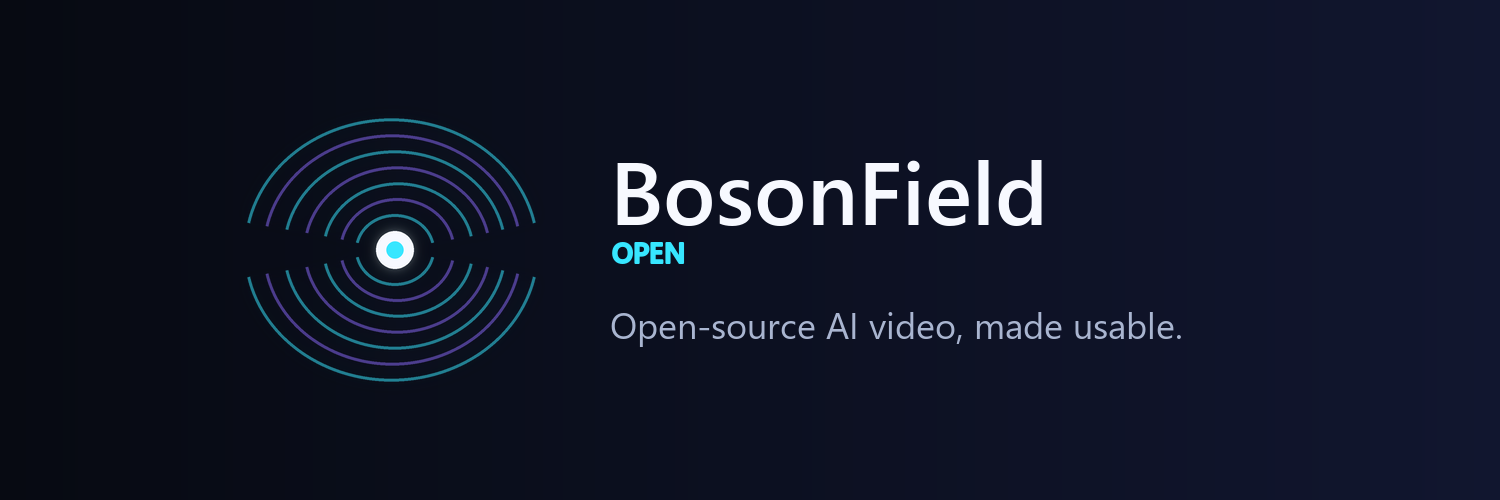
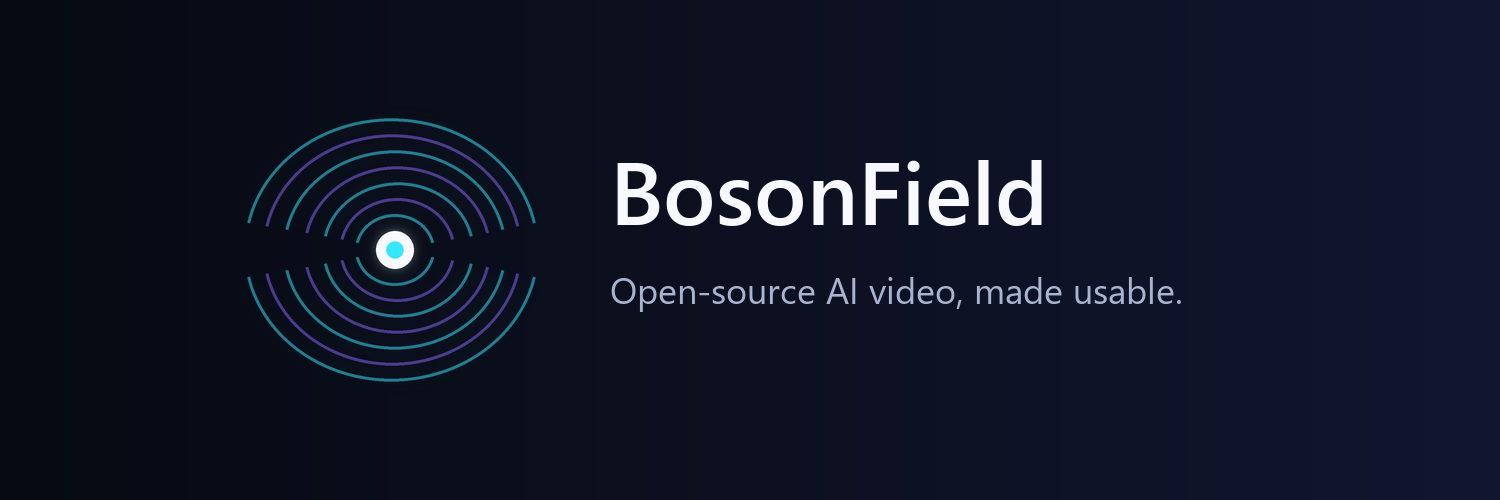
Lock public name to BosonField

Changed region(s): [[0.3987, 0.48, 0.7973, 0.69]]

diff --git a/index.html b/index.html
@@ -3,12 +3,12 @@
 <head>
   <meta charset="utf-8">
   <meta name="viewport" content="width=device-width, initial-scale=1">
-  <meta name="description" content="BosonField Open turns free and openly licensed AI-video tools into clear beginner lessons, tested workflows, and community-built software.">
+  <meta name="description" content="BosonField turns free and openly licensed AI-video tools into clear beginner lessons, tested workflows, and community-built software.">
   <meta name="theme-color" content="#070A12">
-  <meta property="og:title" content="BosonField Open">
+  <meta property="og:title" content="BosonField">
   <meta property="og:description" content="Open-source AI video, made usable.">
   <meta property="og:image" content="brand/banner-1500x500.png">
-  <title>BosonField Open — open-source AI video, made usable</title>
+  <title>BosonField — open-source AI video, made usable</title>
   <style>
     :root {
       --ink:#070a12; --panel:#101528; --panel2:#151c35; --text:#f7f9ff;
@@ -73,7 +73,7 @@
 <body>
   <header class="wrap">
     <nav aria-label="Main navigation">
-      <a class="brand" href="#top"><img src="brand/avatar-400.png" alt="BosonField Open contour mark"><span>BosonField Open</span></a>
+      <a class="brand" href="#top"><img src="brand/avatar-400.png" alt="BosonField contour mark"><span>BosonField</span></a>
       <div class="navlinks"><a href="#work">What we build</a><a href="#proof">Proof rules</a><a href="#join">Join</a></div>
     </nav>
   </header>
@@ -83,9 +83,9 @@
       <div>
         <div class="eyebrow">Free tools · clear lessons · shared workflows</div>
         <h1>Open-source AI video, made usable.</h1>
-        <p class="lede">BosonField Open helps a first-time creator install the right tool, make one real video, fix common errors, and share what worked.</p>
+        <p class="lede">BosonField helps a first-time creator install the right tool, make one real video, fix common errors, and share what worked.</p>
         <div class="actions">
-          <a class="button primary" href="https://github.com/bfarmer27-ops/bosonfield-open">Follow the public build</a>
+          <a class="button primary" href="https://github.com/bfarmer27-ops/bosonfield">Follow the public build</a>
           <a class="button secondary" href="#work">See the first releases</a>
         </div>
       </div>
@@ -114,10 +114,10 @@
     </div></section>
 
     <section id="join"><div class="wrap">
-      <div class="callout"><div class="eyebrow">Build with us</div><h2>Bring one test, one fix, or one clear lesson.</h2><p class="section-intro">The first community jobs are hardware reports, license checks, translated captions, and repairs to confusing steps.</p><a class="button primary" href="https://github.com/bfarmer27-ops/bosonfield-open">Open the GitHub project</a></div>
+      <div class="callout"><div class="eyebrow">Build with us</div><h2>Bring one test, one fix, or one clear lesson.</h2><p class="section-intro">The first community jobs are hardware reports, license checks, translated captions, and repairs to confusing steps.</p><a class="button primary" href="https://github.com/bfarmer27-ops/bosonfield">Open the GitHub project</a></div>
     </div></section>
   </main>
 
-  <footer class="wrap"><span>© 2026 BosonField Open contributors · Apache-2.0 code</span><span>Independent from Higgsfield, MiniMax, and the separate stale2000/bosonfield project.</span></footer>
+  <footer class="wrap"><span>© 2026 BosonField contributors · Apache-2.0 code</span><span>Independent from Higgsfield, MiniMax, and the separate stale2000/bosonfield project.</span></footer>
 </body>
 </html>

diff --git a/scripts/generate_brand_assets.py b/scripts/generate_brand_assets.py
@@ -101,7 +101,7 @@ def save_candidates():
         board.paste(thumb,(x,30),thumb)
         label=name.split('-',1)[1].title()
         d.text((x+180,420),label,font=font(34,True),fill=WHITE,anchor="mm")
-    d.text((600,482),"BosonField Open — mark studies",font=font(26),fill=MUTED,anchor="mm")
+    d.text((600,482),"BosonField — mark studies",font=font(26),fill=MUTED,anchor="mm")
     board.save(OUT/"logo-candidates.png",optimize=True)
 
 
@@ -118,8 +118,7 @@ def save_selected():
     glow=field_mark(340,"contours",transparent=True)
     im.paste(glow,(225,80),glow)
     d.text((610,130),"BosonField",font=font(88,True),fill=WHITE)
-    d.text((612,232),"OPEN",font=font(28,True),fill=CYAN,stroke_width=1)
-    d.text((610,300),"Open-source AI video, made usable.",font=font(36),fill=MUTED)
+    d.text((610,265),"Open-source AI video, made usable.",font=font(36),fill=MUTED)
     im.save(OUT/"banner-1500x500.png",optimize=True)
 
     # YouTube banner. Every key item fits the 1546 x 423 center safe area:
@@ -128,8 +127,7 @@ def save_selected():
     glow=field_mark(370,"contours",transparent=True)
     yt.paste(glow,(610,532),glow)
     d.text((1040,555),"BosonField",font=font(102,True),fill=WHITE)
-    d.text((1044,670),"OPEN",font=font(31,True),fill=CYAN)
-    d.text((1040,742),"Free tools. Clear lessons. Shared workflows.",font=font(38),fill=MUTED)
+    d.text((1040,700),"Free tools. Clear lessons. Shared workflows.",font=font(38),fill=MUTED)
     d.rounded_rectangle((1040,825,1575,892),radius=28,outline=CYAN,width=3)
     d.text((1307,858),"BUILD WITH US",font=font(28,True),fill=WHITE,anchor="mm")
     yt.save(OUT/"youtube-banner-2560x1440.png",optimize=True)
@@ -139,7 +137,7 @@ def save_selected():
     m=field_mark(300,"contours",transparent=True)
     sq.paste(m,(70,65),m)
     d.text((80,410),"Make AI video\nwith free,\nopen tools.",font=font(78,True),fill=WHITE,spacing=10)
-    d.text((82,735),"BosonField Open",font=font(36,True),fill=CYAN)
+    d.text((82,735),"BosonField",font=font(36,True),fill=CYAN)
     d.text((82,800),"Free beginner lessons. Shared workflows.\nReal local hardware tests.",font=font(39),fill=MUTED,spacing=12)
     d.text((82,1000),"@bosonfieldopen",font=font(30,True),fill=WHITE)
     sq.save(OUT/"launch-card-1080.png",optimize=True)

diff --git a/tests/test_brand_identity.py b/tests/test_brand_identity.py
@@ -1,0 +1,39 @@
+import json
+import unittest
+from pathlib import Path
+
+
+ROOT = Path(__file__).resolve().parents[1]
+IDENTITY = ROOT / "brand-identity.json"
+PUBLIC_TEXT = [
+    *ROOT.glob("*.md"),
+    ROOT / "index.html",
+    *ROOT.glob("community/*.md"),
+    *ROOT.glob("research/*.md"),
+    *ROOT.glob(".github/ISSUE_TEMPLATE/*.*"),
+]
+
+
+class BrandIdentityTests(unittest.TestCase):
+    def test_user_locked_display_name_is_exact(self):
+        identity = json.loads(IDENTITY.read_text(encoding="utf-8"))
+        self.assertTrue(identity["user_locked"])
+        self.assertEqual(identity["display_name"], "BosonField")
+        self.assertEqual(identity["fallback_handle"], "bosonfieldopen")
+
+    def test_old_unapproved_display_name_is_absent_from_public_text(self):
+        forbidden = "BosonField" + " Open"
+        hits = []
+        for path in PUBLIC_TEXT:
+            if path.is_file() and forbidden in path.read_text(encoding="utf-8"):
+                hits.append(str(path.relative_to(ROOT)))
+        self.assertEqual(hits, [])
+
+    def test_asset_source_does_not_draw_old_open_name_line(self):
+        source = (ROOT / "scripts" / "generate_brand_assets.py").read_text(encoding="utf-8")
+        self.assertNotIn('"BosonField' + ' Open"', source)
+        self.assertNotIn('"OPEN"', source)
+
+
+if __name__ == "__main__":
+    unittest.main()

diff --git a/README.md b/README.md
@@ -1,8 +1,8 @@
-# BosonField Open
+# BosonField
 
 **Open-source AI video, made usable.**
 
-BosonField Open will turn free and openly licensed AI-video tools into beginner lessons, tested workflows, and community-built software. The goal is not to copy Higgsfield. The goal is to build an independent, inspectable path that creators can run, learn from, and improve.
+BosonField will turn free and openly licensed AI-video tools into beginner lessons, tested workflows, and community-built software. The goal is not to copy Higgsfield. The goal is to build an independent, inspectable path that creators can run, learn from, and improve.
 
 ## What ships first
 
@@ -38,20 +38,20 @@ Official Wan2.1 source: <https://github.com/Wan-Video/Wan2.1>
 - No training data or upload is collected without a clear opt-in.
 - Synthetic media is labeled when a platform requires it or when a reasonable viewer could mistake it for a real event.
 
-## Working public name
+## Locked public name
 
-- Display name: **BosonField Open**
+- Display name: **BosonField**
 - Main handle target: **@bosonfieldopen**
 - Short bio: **Open-source AI video. Free beginner guides. Tested workflows. Build with us.**
 
-The added word “Open” is deliberate. A separate public GitHub project named `stale2000/bosonfield`, a live `bosonfield.vercel.app` site, Instagram `@bosonfield`, and X `@Bosonfield` already existed when checked on 9 September 2026. BosonField Open is an independent project and is not affiliated with those accounts, MiniMax, or Higgsfield.
+The display name is locked to Ryan's exact requested name, **BosonField**. A service may use **@bosonfieldopen** only as a unique username fallback. A username collision is not permission to change the business name. A separate public GitHub project named `stale2000/bosonfield`, a live `bosonfield.vercel.app` site, Instagram `@bosonfield`, and X `@Bosonfield` already existed when checked on 9 September 2026. BosonField is independent and is not affiliated with those accounts, MiniMax, or Higgsfield.
 
 ## Live project
 
-- Website: <https://bfarmer27-ops.github.io/bosonfield-open/>
-- Code and public work: <https://github.com/bfarmer27-ops/bosonfield-open>
-- Beginner questions and member results: <https://github.com/bfarmer27-ops/bosonfield-open/discussions>
-- 90-day work list: <https://github.com/bfarmer27-ops/bosonfield-open/milestone/1>
+- Website: <https://bfarmer27-ops.github.io/bosonfield/>
+- Code and public work: <https://github.com/bfarmer27-ops/bosonfield>
+- Beginner questions and member results: <https://github.com/bfarmer27-ops/bosonfield/discussions>
+- 90-day work list: <https://github.com/bfarmer27-ops/bosonfield/milestone/1>
 
 ## Plans and evidence
 
@@ -73,4 +73,4 @@ Read [CONTRIBUTING.md](CONTRIBUTING.md), [CODE_OF_CONDUCT.md](CODE_OF_CONDUCT.md
 
 ## License
 
-BosonField Open code and original documentation in this repository are licensed under Apache License 2.0. Model weights, third-party workflows, names, and media keep their own terms.
+BosonField code and original documentation in this repository are licensed under Apache License 2.0. Model weights, third-party workflows, names, and media keep their own terms.

diff --git a/research/NAME_CHECK.md b/research/NAME_CHECK.md
@@ -1,10 +1,10 @@
 # Name check — 2026-09-09
 
-## Decision used for launch
+## Locked name and fallback handles
 
-Use **BosonField Open** as the public display name and **@bosonfieldopen** as the first handle choice. Keep **BosonField** as the short project name.
+Use **BosonField** as the exact public display and business name. Use **@bosonfieldopen** only as a fallback username when a service will not allow **@bosonfield**.
 
-## Why the extra word is required
+## Why a fallback username may be required
 
 A separate public project already uses the exact name **Bosonfield** for an AI-video workspace:
 
@@ -13,7 +13,7 @@ A separate public project already uses the exact name **Bosonfield** for an AI-v
 - First public commit shown by GitHub: 2026-07-27T00:18:40Z
 - Repository license shown by GitHub: none
 
-The same market and same exact name create a real risk that users will confuse the two projects. No code, copy, design, presets, or other material from that project may be used unless the owner publishes terms that allow it.
+The same market and same exact name create a real risk that users will confuse the two projects. The independence line below addresses that risk. It does not change Ryan's requested name. No code, copy, design, presets, or other material from that project may be used unless the owner publishes terms that allow it.
 
 ## Exact handle checks
 
@@ -21,7 +21,7 @@ The same market and same exact name create a real risk that users will confuse t
 - X **@Bosonfield** is already an active profile named **Miguel Martins**.
 - Instagram signup marked **@bosonfieldopen** valid on 2026-09-09.
 - X returned no public profile for **@bosonfieldopen** on 2026-09-09; final availability still must be checked inside signup.
-- GitHub returned no user named **bosonfieldopen** on 2026-09-09. The live project repository uses `bfarmer27-ops/bosonfield-open` until an organization is created.
+- GitHub returned no user named **bosonfieldopen** on 2026-09-09. The project stays under Ryan's existing `bfarmer27-ops` account; a separate organization is not required for the exact repository name.
 
 ## Domain signals
 
@@ -31,6 +31,7 @@ ICANN RDAP returned “not found” for `bosonfieldopen.com` and the Public Inte
 
 - Do not say this is the first project named BosonField.
 - Do not say the name is legally cleared.
+- Never turn a handle or URL collision into a new display name without Ryan's explicit approval in that conversation.
 - Do not buy a domain, file a company, print goods, or run paid ads under the name before a professional trademark check.
 - Keep the line “Independent from Higgsfield, MiniMax, and the separate stale2000/bosonfield project.”
 - Recheck each handle immediately before the final signup click.

diff --git a/SOCIAL_PROFILE_COPY.md b/SOCIAL_PROFILE_COPY.md
@@ -2,9 +2,9 @@
 
 ## Shared identity
 
-- Display name: **BosonField Open**
+- Display name: **BosonField**
 - Preferred handle: **@bosonfieldopen**
-- Website: **https://bfarmer27-ops.github.io/bosonfield-open/**
+- Website: **https://bfarmer27-ops.github.io/bosonfield/**
 - Category: **Education / Software**
 - Avatar: `brand/avatar-512.png`
 - General header: `brand/banner-1500x500.png`
@@ -16,7 +16,7 @@ Open-source AI video. Free beginner guides. Tested workflows. Build with us.
 
 ## YouTube description
 
-BosonField Open teaches AI-video creation with free and openly licensed tools. Every lesson shows the exact versions, model license, hardware, settings, run time, errors, repairs, and real output.
+BosonField teaches AI-video creation with free and openly licensed tools. Every lesson shows the exact versions, model license, hardware, settings, run time, errors, repairs, and real output.
 
 Start with one lesson. Download the matching files. Make the result. Post what happened so the next guide gets better.
 
@@ -36,8 +36,8 @@ Free beginner guides and open-source tools for AI video. Tested workflows, clear
 
 ## Profile links
 
-1. Website: https://bfarmer27-ops.github.io/bosonfield-open/
-2. GitHub project: https://github.com/bfarmer27-ops/bosonfield-open
-3. Community: https://github.com/bfarmer27-ops/bosonfield-open/discussions/9
+1. Website: https://bfarmer27-ops.github.io/bosonfield/
+2. GitHub project: https://github.com/bfarmer27-ops/bosonfield
+3. Community: https://github.com/bfarmer27-ops/bosonfield/discussions/9
 
 Do not publish a donation link until the page names the exact use of funds, fees, payout owner, and monthly proof report.

diff --git a/research/SOURCES.md b/research/SOURCES.md
@@ -16,13 +16,13 @@ Checked on 2026-09-09. Recheck before each public claim because pages and licens
 - Official model page: https://huggingface.co/MiniMaxAI/MiniMax-H3
 - Official license file: https://huggingface.co/MiniMaxAI/MiniMax-H3/blob/main/LICENSE
 
-The license dated 2026-08-02 defines the European Union, United Kingdom, Republic of Korea, and United States as “Excluded Territories.” BosonField Open must not run, distribute, or build a tutorial workflow around H3 from Spain or the Dallas host unless MiniMax publishes new terms that permit those places. A news or license-reading lesson can quote short parts with a link; it must not ship the model or a runnable H3 pack.
+The license dated 2026-08-02 defines the European Union, United Kingdom, Republic of Korea, and United States as “Excluded Territories.” BosonField must not run, distribute, or build a tutorial workflow around H3 from Spain or the Dallas host unless MiniMax publishes new terms that permit those places. A news or license-reading lesson can quote short parts with a link; it must not ship the model or a runnable H3 pack.
 
-## BosonField Open live proof
+## BosonField live proof
 
-- Public repository: https://github.com/bfarmer27-ops/bosonfield-open
-- Public site: https://bfarmer27-ops.github.io/bosonfield-open/
-- Public welcome discussion: https://github.com/bfarmer27-ops/bosonfield-open/discussions/9
+- Public repository: https://github.com/bfarmer27-ops/bosonfield
+- Public site: https://bfarmer27-ops.github.io/bosonfield/
+- Public welcome discussion: https://github.com/bfarmer27-ops/bosonfield/discussions/9
 
 ## Rules for the research folder
 

diff --git a/BRAND.md b/BRAND.md
@@ -2,10 +2,10 @@
 
 ## Name
 
-- Public display: **BosonField Open**
+- Public display: **BosonField**
 - Short display where space is tight: **BosonField**
 - Handle target: **@bosonfieldopen**
-- Say the words as written: **Boson Field Open**.
+- Say the words as written: **BosonField**.
 
 ## One-line promise
 
@@ -13,7 +13,7 @@
 
 ## Mission
 
-BosonField Open gives beginners free lessons, tested workflow files, honest hardware results, and open software for making AI video.
+BosonField gives beginners free lessons, tested workflow files, honest hardware results, and open software for making AI video.
 
 ## Voice
 
@@ -47,7 +47,7 @@ Open-source AI video for beginners. Free tutorials, tested workflows, honest har
 
 ### Launch caption
 
-AI video can be learned with free tools and shared files. BosonField Open will publish exact beginner lessons, tested workflows, hardware results, and license checks. The build starts in public.
+AI video can be learned with free tools and shared files. BosonField will publish exact beginner lessons, tested workflows, hardware results, and license checks. The build starts in public.
 
 ### Link text
 
@@ -55,4 +55,4 @@ Get the workflows, tests, and roadmap on GitHub.
 
 ## Independence line
 
-BosonField Open is independent. It is not affiliated with Higgsfield, MiniMax, or the separate `stale2000/bosonfield` project.
+BosonField is independent. It is not affiliated with Higgsfield, MiniMax, or the separate `stale2000/bosonfield` project.

diff --git a/community/WELCOME.md b/community/WELCOME.md
@@ -1,6 +1,6 @@
-# Welcome to BosonField Open
+# Welcome to BosonField
 
-BosonField Open is a public project for making free and openly licensed AI-video tools easier for first-time creators.
+BosonField is a public project for making free and openly licensed AI-video tools easier for first-time creators.
 
 ## Start here
 
@@ -30,4 +30,4 @@ State what you tested. State what you did not test. Help the person solve the na
 
 There is no donation link yet. We will add one only after it has a clear public budget, fee note, and monthly receipt report. The code and core beginner lessons will stay public.
 
-BosonField Open is independent. It is not affiliated with Higgsfield, MiniMax, or the separate `stale2000/bosonfield` project.
+BosonField is independent. It is not affiliated with Higgsfield, MiniMax, or the separate `stale2000/bosonfield` project.

diff --git a/GROWTH_AND_REVENUE_PLAN.md b/GROWTH_AND_REVENUE_PLAN.md
@@ -2,7 +2,7 @@
 
 ## One clear promise
 
-BosonField Open teaches beginners in Spain and the EU to make a repeatable local or free-tier AI-video clip. Every lesson shows the workflow, settings, model license, VRAM, run time, errors, repairs, and real output.
+BosonField teaches beginners in Spain and the EU to make a repeatable local or free-tier AI-video clip. Every lesson shows the workflow, settings, model license, VRAM, run time, errors, repairs, and real output.
 
 ## First audiences
 

diff --git a/SECURITY.md b/SECURITY.md
@@ -15,7 +15,7 @@ Until a private reporting inbox is live, do not send exploit details or secrets.
 
 ## Scope
 
-Only BosonField Open code is in scope. Model behavior, third-party tools, hosting services, and social platforms must be reported to their owners.
+Only BosonField code is in scope. Model behavior, third-party tools, hosting services, and social platforms must be reported to their owners.
 
 ## Release rule
 

diff --git a/CONTENT_PLAN.md b/CONTENT_PLAN.md
@@ -31,4 +31,4 @@ Each full lesson must show the real output, exact versions, model license, GPU a
 27. Every File Behind This Tutorial: Prompt, Seed, Versions, and License
 28. AI Video Rights in Plain Words: Consent, Copyright, and Disclosure
 29. The 14-Day Open Video Challenge: Member Results
-30. BosonField Open: 90-Day Build, Starter Kit, and How to Help
+30. BosonField: 90-Day Build, Starter Kit, and How to Help
